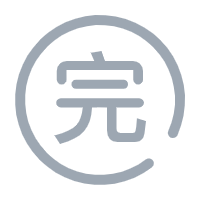
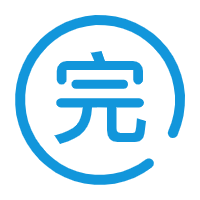
欠费图标等修改

Changed region(s): [[0.06, 0.06, 0.93, 0.93], [0.27, 0.48, 0.75, 0.72], [0.27, 0.24, 0.72, 0.45]]

diff --git a/src/pages/mainPageTab/index.vue b/src/pages/mainPageTab/index.vue
@@ -323,7 +323,7 @@
 
 		/*screen*/
 		.rf-header-screen {
-            margin-top: 46px;
+            margin-top: 20px;
 			width: 100%;
 			background: $color-white;
 			position: fixed;
